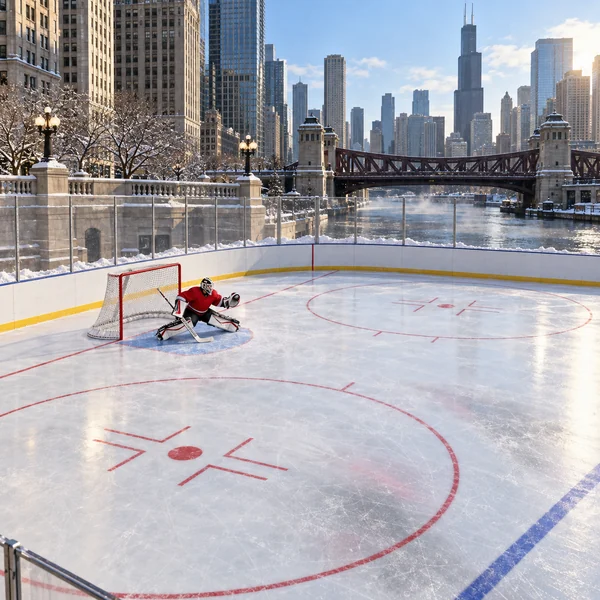
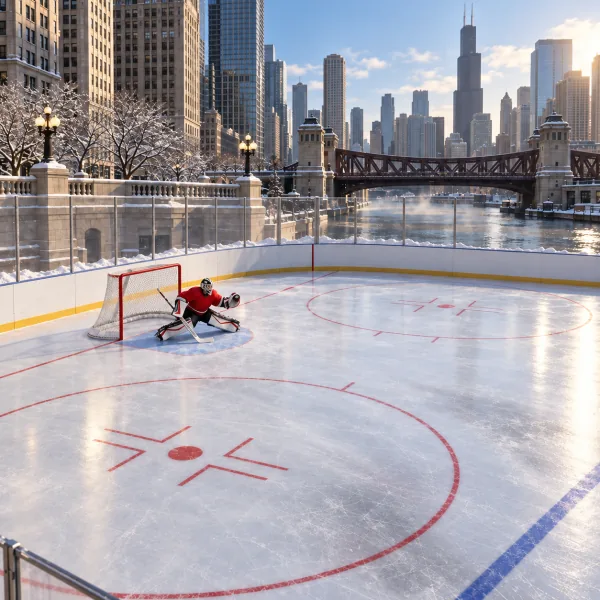
fix(web): refresh Philadelphia and Chicago game previews

diff --git a/packages/web/src/game/bonusGameArtwork.ts b/packages/web/src/game/bonusGameArtwork.ts
@@ -6,7 +6,8 @@ type BonusGameCatalogArtworkKind = 'featured' | 'compact';
 
 export function versionBonusGameArtwork(url: string): string {
   if (!url.startsWith('/bonus-games/') || url.includes('?')) return url;
-  if (url === '/bonus-games/nhl-cities/previews/philadelphia.webp') return `${url}?v=20261009-philadelphia-v2`;
+  if (url === '/bonus-games/nhl-cities/previews/philadelphia.webp') return `${url}?v=20261012-philadelphia-v4`;
+  if (url === '/bonus-games/nhl-cities/previews/chicago.webp') return `${url}?v=20261012-chicago-v2`;
   if (url.startsWith('/bonus-games/level-previews/') || url.startsWith('/bonus-games/finales/')) {
     return `${url}?v=${CHALLENGE_STORY_ARTWORK_VERSION}`;
   }
